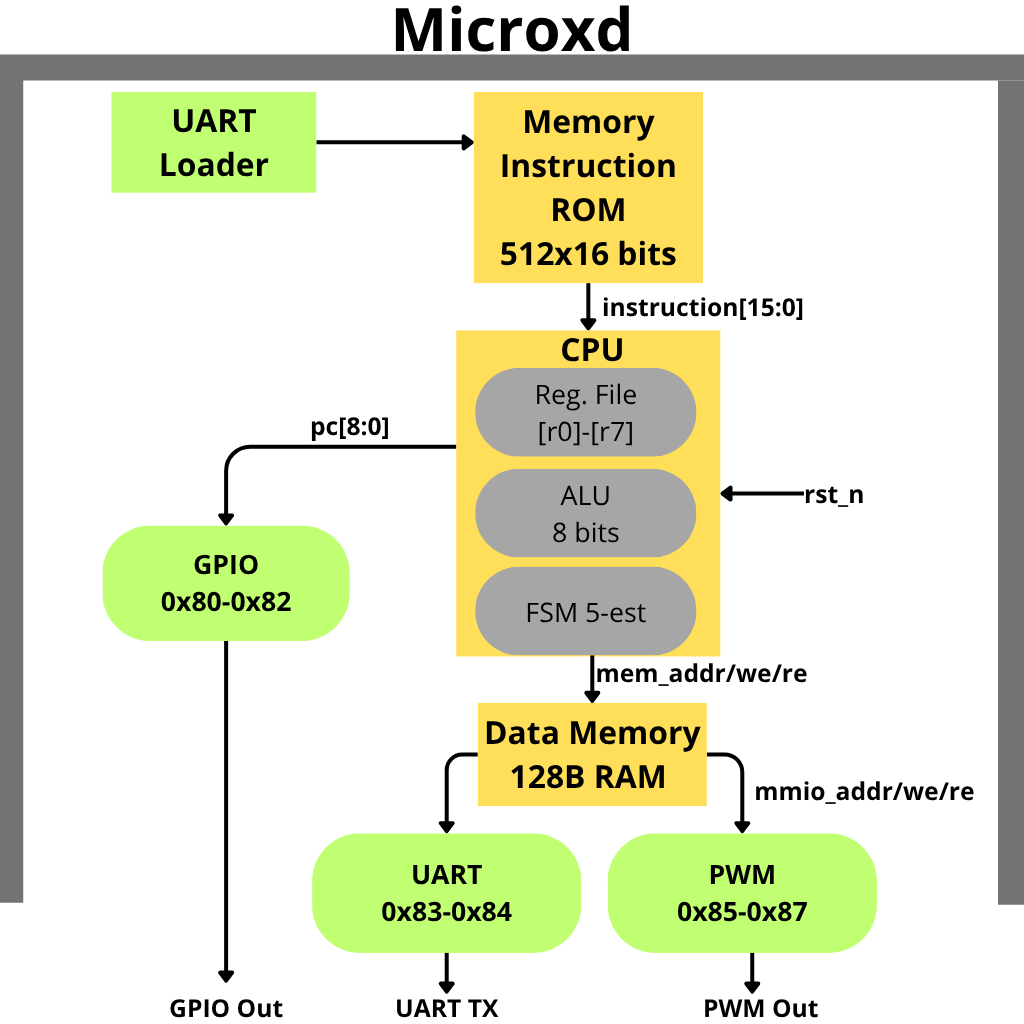
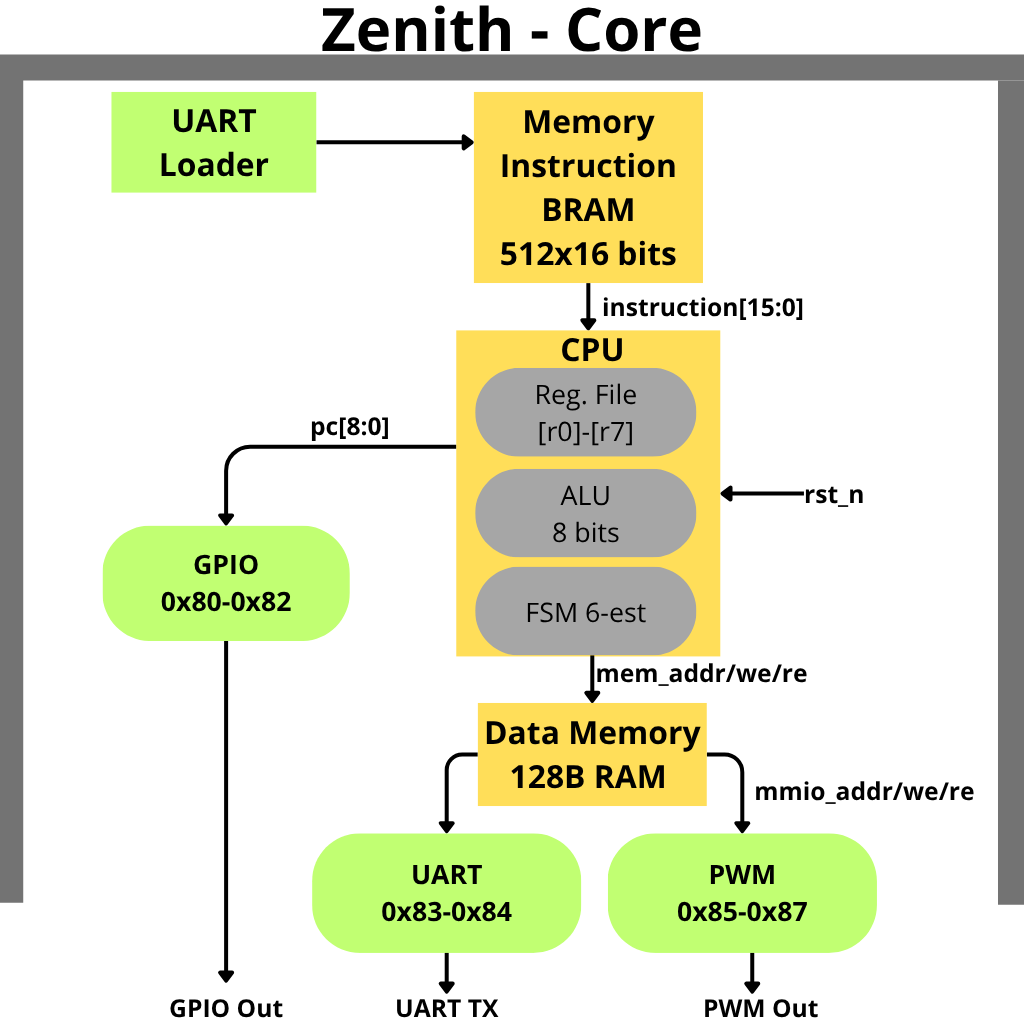
se añade la gif y mejora el readme

Changed region(s): [[0.3125, 0.0, 0.6875, 0.0625], [0.5312, 0.1875, 0.625, 0.2188]]

diff --git a/README.md b/README.md
@@ -1,158 +1,192 @@
-# Micro
+<div align="center">
 
-Primer microcontrolador de 8 bits basado en RISC-V diseñado en Guatemala.
-ISA de 16 bits propia, 8 registros, periféricos MMIO, sintetizable en **Tang Nano 9K.**
+# Zenith Core
+
+**Primer microcontrolador de 8 bits basado en RISC-V diseñado en Guatemala.**  
+ISA de 16 bits propia · 8 registros · periféricos MMIO · Tang Nano 9K
+
+![Verilog](https://img.shields.io/badge/Verilog-RTL-blue?style=flat-square)
+![Python](https://img.shields.io/badge/Python-tools-yellow?style=flat-square)
+![FPGA](https://img.shields.io/badge/FPGA-Tang%20Nano%209K-green?style=flat-square)
+![Status](https://img.shields.io/badge/status-funcional-brightgreen?style=flat-square)
+![Made in](https://img.shields.io/badge/Made%20in-Guatemala-blue?style=flat-square)
+
+</div>
+
+---
+
+## Que es esto
+
+Zenith Core es un microcontrolador de 8 bits diseñado completamente desde cero en Verilog y sintetizado en una FPGA Gowin. Incluye su propio ISA, ensamblador, cargador UART, periféricos MMIO y un IDE gráfico para escribir y flashear programas sin tocar la terminal.
+
+Los programas se cargan por UART sin resintetizar. El CPU corre a 27 MHz con 4.5 MIPS efectivos.
+
+---
+
+## Hardware
+
+<div align="center">
+
+![Tang Nano 9K](https://wiki.sipeed.com/hardware/assets/Tang/Nano-9K/9K.png)
+
+*Sipeed Tang Nano 9K — Gowin GW1NR-9C, 8640 LUTs, 27 MHz*
+
+</div>
+
+| Pin | Señal | Descripcion |
+|-----|-------|-------------|
+| 17 | UART RX | Recibe programas desde PC |
+| 18 | UART TX | Transmite datos por UART |
+| 25 | PWM OUT | Salida PWM |
+| 10–15 | LED[0–5] | 6 LEDs activos en bajo (GPIO bits 0–5) |
+| S1 | RESET | Reset activo en bajo |
+
+---
+
+## Arquitectura
+
+<div align="center">
+
+![Arquitectura Zenith Core](imgs/Microxd.png)
+
+</div>
+
+El sistema completo vive en `microrv8_system.v`. El CPU tiene una FSM de 6 estados diseñada para absorber la latencia de 1 ciclo de la BRAM sincrona de Gowin. El loader UART escribe directamente en la instruction memory en tiempo real sin resintetizar.
+
+---
+
+## En accion
+
+<div align="center">
+
+![Demo LEDs](imgs/demo.gif)
+
+*Contador binario corriendo en la FPGA después se le carga un programa que enciende todos los LED*
+
+</div>
 
 ---
 
 ## Inicio rápido
 
-```
+```bash
+# IDE grafico: escribir, ensamblar y flashear
+python3 JoJoP_IDE.py
+
+# GUI de simulacion
 python3 sim_gui.py
 ```
 
-Abre la GUI. Desde ahí puedes compilar, simular y cargar programas sin tocar la terminal.
+### Desde terminal
 
-Para editar y flashear programas desde un IDE:
+```bash
+# Ensamblar
+python3 tools/assembler.py programs/mi_prog.asm --binary -o programs/mi_prog.bin
+
+# Cargar a la FPGA sin resintetizar
+python3 tools/uart_flash.py programs/mi_prog.bin --port COM17
+```
+
+---
+
+## ISA
+
+8 registros (r0–r7). r0 siempre es 0. Instrucciones de 16 bits. 6 ciclos por instrucción.
 
 ```
-python3 JoJoP_IDE.py
+ADDI rd, rs1, imm    rd = rs1 + imm       imm: -8 a +7
+ADD  rd, rs1, rs2    rd = rs1 + rs2
+SUB  rd, rs1, rs2    rd = rs1 - rs2
+AND / OR / XOR / SLL / SRL / SLT
+LOAD  rd, rs1, imm   rd = MEM[rs1 + imm]
+STORE rs2, rs1, imm  MEM[rs1 + imm] = rs2
+BEQ  rs1, rs2, lbl   salto si rs1 == rs2   offset: -8 a +7
+JUMP label           salto absoluto         0 a 511
+JAL  rd, label       rd = PC+1; salto
+OUT  rs1             gpio_out = rs1
 ```
+
+Mapa MMIO: `0x80` GPIO_OUT · `0x81` GPIO_IN · `0x82` GPIO_DIR · `0x83` UART_TX · `0x84` UART_STAT · `0x85–0x87` PWM.
+
+Ver `TIPS_ASM.md` para delays calibrados, patrones y errores frecuentes.
+
+---
+
+## Recursos de síntesis
+
+| Recurso | Uso | Total | Porcentaje |
+|---------|-----|-------|------------|
+| Logic (LUT + ALU) | 752 | 8640 | 9% |
+| Register (FF) | 388 | 6693 | 6% |
+| BSRAM | 2 | 26 | 8% |
+
+91% de LUTs disponibles para expansion. 4.5 MIPS a 27 MHz.
 
 ---
 
 ## Estructura del repo
 
 ```
-Micro/
-  sim_gui.py              Simulador con GUI
-  JoJoP_IDE.py            IDE para escribir y flashear programas
+Zenith-Core/
+  JoJoP_IDE.py          IDE grafico
+  sim_gui.py            GUI de simulacion
+  TIPS_ASM.md           Guia de assembly y delays
 
-  rtl/                    Módulos Verilog del diseño
-    alu.v
-    regfile.v
-    cpu_core.v
-    instruction_memory.v
-    data_memory.v
-    gpio.v
-    uart.v
-    pwm.v
-    uart_loader.v
-    microrv8_system.v
-    tang_nano_top.v
-    tang_nano_9k.cst
+  rtl/
+    cpu_core.v            CPU FSM 6 estados
+    instruction_memory.v  BRAM 512x16 bits
+    data_memory.v         RAM 128 bytes + decodificador MMIO
+    uart_loader.v         Loader UART
+    uart.v                UART TX/RX
+    gpio.v / pwm.v        Perifericos
+    microrv8_system.v     Sistema completo
+    tang_nano_top.v       Top level para sintesis
+    tang_nano_9k.cst      Constraints de pines
 
-  sim/                    Testbenches
-    tb_cpu.v
-    tb_system.v
+  tools/
+    assembler.py          Ensamblador con listing
+    uart_flash.py         Flasher UART
 
-  tools/                  Scripts Python
-    assembler.py
-    uart_flash.py
-
-  programs/               Programas de ejemplo
-    todos_encendidos.asm / .bin
-    solo_out.asm / .bin
-    blink_min.bin
-    default_via_uart.bin
-    hello_uart.asm
-    pwm_demo.asm
-
-  docs/
-    documentacion.md      Referencia completa: ISA, módulos RTL, herramientas
-    Instalacion.md        Instalación de todas las herramientas
-    FPGA.md               Síntesis y programación en Gowin EDA
-    ejercicios/
-      guia_inicial.md     Verilog y cocotb desde cero + flujo de simulación
-      LABS_COCOTB.md      11 laboratorios de simulación
-      HT_FPGA.md          Hoja de trabajo FPGA y assembly
+  programs/              Programas de ejemplo
+  sim/                   Testbenches Verilog
+  docs/                  Documentacion completa
+  imgs/                  Imagenes y diagramas
 ```
 
 ---
 
 ## Dependencias
 
-| Herramienta | Para qué | Instalar |
-|---|---|---|
-| Python 3.8+ | assembler, sim_gui, uart_flash | python.org |
+| Herramienta | Para que | Instalar |
+|-------------|----------|---------|
+| Python 3.8+ | assembler, IDEs, uart_flash | python.org |
 | PyQt5 | JoJoP_IDE | `pip install PyQt5` |
-| Icarus Verilog | simulación | bleyer.org/icarus (Win) / `apt install iverilog` |
-| GTKWave | ver waveforms | sourceforge.net/projects/gtkwave (Win) / `apt install gtkwave` |
-| cocotb | tests en Python | `pip install cocotb` |
-| pyserial | cargar programas a FPGA | `pip install pyserial` |
-| Gowin EDA | síntesis para Tang Nano 9K | gowinsemi.com |
+| pyserial | cargar programas | `pip install pyserial` |
+| Icarus Verilog | simulacion | `apt install iverilog` |
+| GTKWave | ver waveforms | `apt install gtkwave` |
+| cocotb | tests Python | `pip install cocotb` |
+| Gowin EDA | sintesis FPGA | gowinsemi.com (gratuito) |
 
-Ver `docs/Instalacion.md` para instrucciones detalladas de cada herramienta.
-
----
-
-## Flujos principales
-
-### Escribir y flashear un programa
-
-```bash
-python3 JoJoP_IDE.py
-# Escribir el .asm, compilar a .bin, seleccionar puerto, Flash
-```
-
-### Ensamblar desde terminal
-
-```bash
-python3 tools/assembler.py programs/counter.asm -o programs/counter.hex
-python3 tools/assembler.py mi_prog.asm --binary -o mi_prog.bin
-python3 tools/uart_flash.py mi_prog.bin --port COM3
-```
-
-### Simular
-
-```bash
-python3 sim_gui.py
-# Modo cocotb: seleccionar test .py, escribir top module, clic Todo
-# Modo Verilog: seleccionar tb_system.v, Compilar > Simular > GTKWave
-```
-
-### Sintetizar para Tang Nano 9K
-
-1. Abrir Gowin EDA, crear proyecto con device `GW1NR-9C QFN88 C6/I5`
-2. Agregar todos los `.v` de `rtl/` y el `.cst`
-3. Set as Top Module: `tang_nano_top`
-4. Synthesize → Place & Route → Generate Bitstream → Program Device
-
-Ver `docs/FPGA.md` para el flujo completo.
+Ver `docs/Instalacion.md` para instrucciones detalladas.
 
 ---
 
-## ISA resumida
+## Documentacion
 
-8 registros (r0-r7). r0 siempre es 0. Instrucciones de 16 bits. 6 ciclos por instrucción.
-
-```
-ADDI rd, rs1, imm    rd = rs1 + imm       (imm: -8 a 7)
-ADD  rd, rs1, rs2    rd = rs1 + rs2
-SUB  rd, rs1, rs2    rd = rs1 - rs2
-AND / OR / XOR       operaciones lógicas
-SLL / SRL            shifts
-SLT  rd, rs1, rs2    rd = (rs1 < rs2) ? 1 : 0
-LOAD  rd, rs1, imm   rd = MEM[rs1 + imm]
-STORE rs2, rs1, imm  MEM[rs1 + imm] = rs2
-BEQ  rs1, rs2, lbl   salto si rs1 == rs2
-JUMP label           salto absoluto (0 a 511)
-JAL  rd, label       rd = PC+1; salto
-OUT  rs1             gpio_out = rs1
-```
-
-Mapa MMIO: `0x80` GPIO_OUT, `0x81` GPIO_IN, `0x82` GPIO_DIR, `0x83` UART_TX, `0x84` UART_STAT, `0x85-0x87` PWM.
-
-Ver `docs/documentacion.md` para la referencia completa.
+| Archivo | Contenido |
+|---------|-----------|
+| `TIPS_ASM.md` | Delays calibrados, patrones de assembly, errores comunes |
+| `docs/documentacion.md` | Referencia completa: ISA, modulos RTL, herramientas |
+| `docs/Instalacion.md` | Instalacion de todas las herramientas |
+| `docs/FPGA.md` | Sintesis y programacion en Gowin EDA |
+| `docs/ejercicios/guia_inicial.md` | Verilog y cocotb desde cero |
+| `docs/ejercicios/LABS_COCOTB.md` | 11 laboratorios de simulacion |
+| `docs/ejercicios/HT_FPGA.md` | Hoja de trabajo FPGA y assembly |
 
 ---
 
-## Hardware
+<div align="center">
 
-Tang Nano 9K — FPGA Gowin GW1NR-9C, 8640 LUTs, 27 MHz.
-El diseño usa aproximadamente 1000 LUTs y 1 bloque BRAM de 9K.
+Diseñado en Guatemala Por Pablo Lopez
 
-LEDs muestran los 6 bits bajos de GPIO (activos en bajo).
-UART en pins 17 (RX) y 18 (TX) a 115200 baud 8N1.
-PWM en pin 25.
-Reset en botón S1.
+</div>